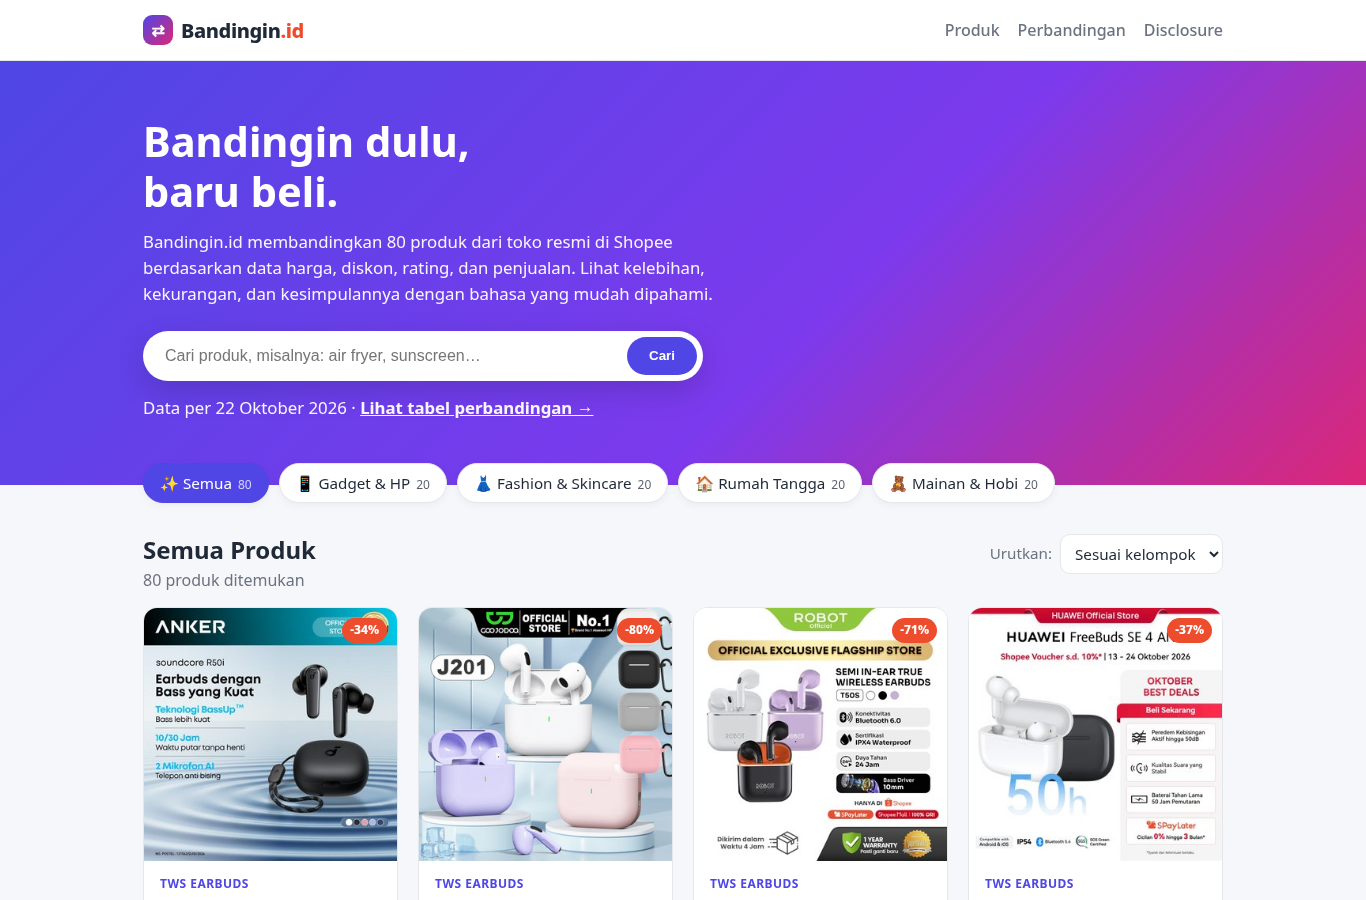
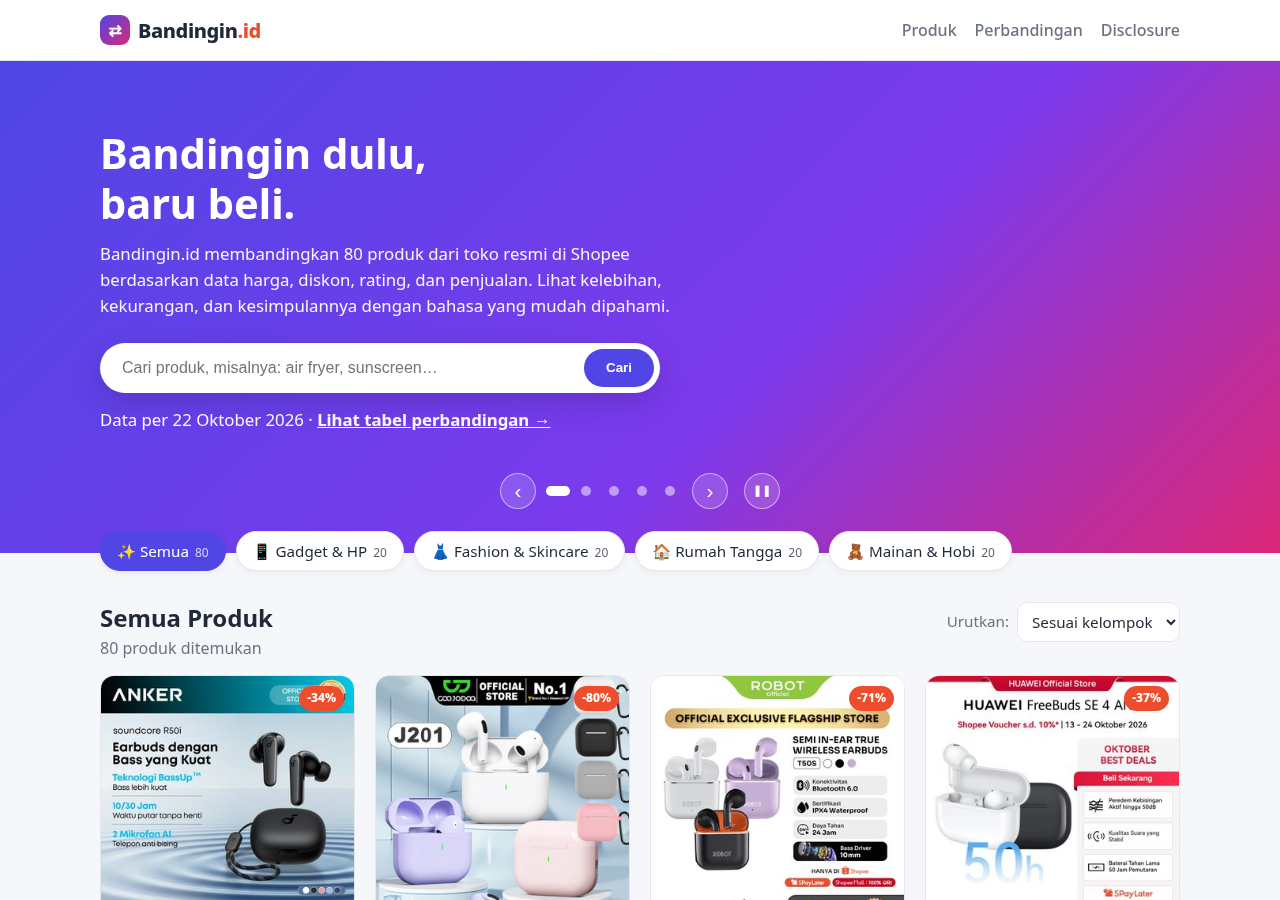
Hero jadi slide show

Changed region(s): [[0.0, 0.1244, 1.0, 1.0], [0.0625, 0.0, 0.2188, 0.0622], [0.6875, 0.0311, 0.9062, 0.0622]]

diff --git a/js/slideshow.js b/js/slideshow.js
@@ -1,0 +1,112 @@
+/* Slide show di beranda. Slide 1 = hero (sudah ada di index.html), slide berikutnya = produk unggulan
+   per kategori (Situs.daftarUnggulan di js/common.js). Tanpa library. */
+(function () {
+  var S = window.Situs;
+  var root = document.getElementById("slideshow");
+  var track = document.getElementById("hs-track");
+  if (!root || !track || !S) return;
+  var elDots = document.getElementById("hs-dots");
+  var elKontrol = document.getElementById("hs-kontrol");
+  var btnPrev = document.getElementById("hs-prev");
+  var btnNext = document.getElementById("hs-next");
+  var btnJeda = document.getElementById("hs-jeda");
+  var JEDA_MS = 5000;
+  var reduce = window.matchMedia && window.matchMedia("(prefers-reduced-motion: reduce)").matches;
+
+  function slideProduk(u) {
+    var p = u.produk, link = "review.html?id=" + encodeURIComponent(p.id), s = S.linkShopee(p);
+    var img = S.gambar(p, true, false).replace('loading="lazy"', 'loading="eager"');
+    return '<div class="hs-slide hs-produk" role="group" aria-roledescription="slide">' +
+      '<a class="hs-img" href="' + link + '" tabindex="-1" aria-hidden="true">' + img + "</a>" +
+      '<div class="hs-info">' +
+        '<p class="hs-kicker">' + u.ikon + " Pilihan teratas " + S.esc(u.kategori) + "</p>" +
+        '<span class="hs-cat">' + S.esc(p.jenisNama || p.kategori) + "</span>" +
+        '<h2 class="hs-judul"><a href="' + link + '" title="' + S.esc(p.nama) + '">' + S.esc(S.judulPendek(p.nama)) + "</a></h2>" +
+        '<p class="hs-harga"><b>' + S.esc(S.rupiah(p.harga)) + "</b>" +
+          (p.hargaAsli ? " <s>" + S.esc(S.rupiah(p.hargaAsli)) + "</s>" : "") +
+          (p.diskon ? ' <span class="hs-diskon">-' + p.diskon + "%</span>" : "") + "</p>" +
+        '<p class="hs-meta">' + S.bintang(p.rating) +
+          (p.terjual != null ? '<span class="hs-sold">' + S.esc(S.terjualTeks(p)) + " terjual/bln</span>" : "") + "</p>" +
+        '<div class="hs-btns"><a class="hs-btn hs-btn-review" href="' + link + '">Baca review</a>' +
+          (s ? '<a class="hs-btn hs-btn-shopee" href="' + S.esc(s) + '" ' + S.REL + ">Cek Harga di Shopee</a>" : "") +
+        "</div>" +
+      "</div></div>";
+  }
+
+  track.insertAdjacentHTML("beforeend", S.daftarUnggulan().map(slideProduk).join(""));
+  var slides = [].slice.call(track.querySelectorAll(".hs-slide"));
+  var n = slides.length;
+  if (n < 2) return;
+
+  var aktif = 0, timer = null, dijeda = reduce, hover = false, fokus = false;
+  elKontrol.hidden = false;
+  root.classList.add("hs-siap");
+  elDots.innerHTML = slides.map(function (sl, i) {
+    var nama = i === 0 ? "Beranda" : sl.querySelector(".hs-kicker").textContent.replace(/^\S+\s/, "");
+    sl.setAttribute("aria-label", (i + 1) + " dari " + n + ": " + nama);
+    return '<button type="button" class="hs-dot" aria-label="Slide ' + (i + 1) + ": " + S.esc(nama) + '"></button>';
+  }).join("");
+  var dots = [].slice.call(elDots.querySelectorAll(".hs-dot"));
+
+  function tampil(i, dariUser) {
+    aktif = (i + n) % n;
+    track.style.transform = "translateX(" + (-100 * aktif) + "%)";
+    slides.forEach(function (sl, j) {
+      var on = j === aktif;
+      sl.setAttribute("aria-hidden", on ? "false" : "true");
+      if (on) sl.removeAttribute("inert"); else sl.setAttribute("inert", "");
+    });
+    dots.forEach(function (d, j) {
+      if (j === aktif) d.setAttribute("aria-current", "true"); else d.removeAttribute("aria-current");
+    });
+    if (dariUser) mulai();
+  }
+  function jalan() { return !dijeda && !hover && !fokus && !document.hidden; }
+  function mulai() {
+    clearInterval(timer); timer = null;
+    if (jalan()) timer = setInterval(function () { tampil(aktif + 1); }, JEDA_MS);
+    // Saat berputar otomatis, pembaca layar tidak diberi tahu tiap pergantian slide
+    track.setAttribute("aria-live", timer ? "off" : "polite");
+    root.classList.toggle("hs-jalan", !!timer);
+  }
+  function setJeda(v) {
+    dijeda = v;
+    btnJeda.setAttribute("aria-pressed", v ? "true" : "false");
+    btnJeda.setAttribute("aria-label", v ? "Putar slide show" : "Jeda slide show");
+    btnJeda.textContent = v ? "▶" : "❚❚";
+    mulai();
+  }
+
+  btnPrev.addEventListener("click", function () { tampil(aktif - 1, true); });
+  btnNext.addEventListener("click", function () { tampil(aktif + 1, true); });
+  btnJeda.addEventListener("click", function () { setJeda(!dijeda); });
+  dots.forEach(function (d, i) { d.addEventListener("click", function () { tampil(i, true); }); });
+  root.addEventListener("keydown", function (e) {
+    if (/^(INPUT|TEXTAREA|SELECT)$/.test(e.target.tagName)) return;
+    if (e.key === "ArrowLeft") { e.preventDefault(); tampil(aktif - 1, true); }
+    else if (e.key === "ArrowRight") { e.preventDefault(); tampil(aktif + 1, true); }
+  });
+  root.addEventListener("mouseenter", function () { hover = true; mulai(); });
+  root.addEventListener("mouseleave", function () { hover = false; mulai(); });
+  root.addEventListener("focusin", function () { fokus = true; mulai(); });
+  root.addEventListener("focusout", function (e) {
+    if (!root.contains(e.relatedTarget)) { fokus = false; mulai(); }
+  });
+  document.addEventListener("visibilitychange", mulai);
+
+  // Geser (swipe) di layar sentuh
+  var x0 = null, y0 = 0;
+  track.addEventListener("touchstart", function (e) { x0 = e.touches[0].clientX; y0 = e.touches[0].clientY; hover = true; mulai(); }, { passive: true });
+  track.addEventListener("touchend", function (e) {
+    if (x0 === null) return;
+    var dx = e.changedTouches[0].clientX - x0, dy = e.changedTouches[0].clientY - y0;
+    x0 = null; hover = false;
+    if (Math.abs(dx) > 40 && Math.abs(dx) > Math.abs(dy)) tampil(aktif + (dx < 0 ? 1 : -1), true);
+    else mulai();
+  }, { passive: true });
+
+  if (reduce) { btnJeda.hidden = true; }
+  tampil(0);
+  mulai();
+  window.SlideShow = { ke: function (i) { tampil(i, true); }, aktif: function () { return aktif; }, jumlah: n };
+})();

diff --git a/css/style.css b/css/style.css
@@ -233,3 +233,61 @@ img { max-width: 100%; display: block; }
   .nav-links a { font-size: .9rem; margin-left: 12px; }
 }
 @media (max-width: 360px) { .nav-links a { font-size: .82rem; margin-left: 8px; } }
+
+/* ===== Slide show (hero) ===== */
+.hero.hs { padding: 40px 0 44px; overflow: hidden; }
+/* Stage sedikit lebih lebar dari kolom (+ padding di tiap slide) supaya bayangan slide sebelah tidak terlihat */
+.hs-stage { overflow: hidden; height: 360px; margin: 0 -40px; }
+.hs-track { display: flex; height: 100%; transition: transform .55s ease; will-change: transform; }
+.hs-slide { flex: 0 0 100%; min-width: 0; height: 100%; padding: 0 40px; display: flex; flex-direction: column; justify-content: center; }
+.hs-produk { display: grid; grid-template-columns: 300px 1fr; gap: 40px; align-items: center; }
+.hs-img { position: relative; display: block; height: 300px; background: #fff; border-radius: 22px; overflow: hidden;
+  box-shadow: 0 10px 24px rgba(0,0,0,.18); padding: 14px; }
+.hs-img img { width: 100%; height: 100%; object-fit: contain; }
+.hs-img .ph { height: 100%; display: flex; align-items: center; justify-content: center; font-size: 4rem; }
+.hs-info { min-width: 0; }
+.hero .hs-kicker { font-size: .85rem; font-weight: 700; letter-spacing: .02em; text-transform: uppercase; opacity: .9; margin: 0 0 8px; }
+.hs-cat { display: inline-block; background: rgba(255,255,255,.18); border: 1px solid rgba(255,255,255,.35); border-radius: 999px;
+  padding: 2px 10px; font-size: .78rem; font-weight: 600; }
+.hs-judul { font-size: clamp(1.3rem, 2.6vw, 2rem); line-height: 1.2; margin: 10px 0 10px;
+  display: -webkit-box; -webkit-line-clamp: 2; -webkit-box-orient: vertical; overflow: hidden; }
+.hs-judul a { color: #fff; text-decoration: none; }
+.hs-judul a:hover { text-decoration: underline; }
+.hero .hs-harga { margin: 0 0 6px; font-size: 1rem; }
+.hs-harga b { font-size: 1.5rem; }
+.hs-harga s { opacity: .75; margin-left: 4px; }
+.hs-diskon { display: inline-block; background: #fff; color: var(--shopee); font-weight: 800; font-size: .8rem; border-radius: 6px; padding: 1px 6px; margin-left: 4px; vertical-align: 2px; }
+.hero .hs-meta { display: flex; align-items: center; gap: 12px; flex-wrap: wrap; margin: 0 0 18px; font-size: .95rem; }
+.hs-meta .star.s-empty { color: rgba(255,255,255,.4); }
+.hs-meta .rating-num { color: #fff; }
+.hs-sold { opacity: .95; }
+.hs-btns { display: flex; gap: 10px; flex-wrap: wrap; }
+.hs-btn { display: inline-block; text-decoration: none; font-weight: 700; font-size: .95rem; padding: 11px 20px; border-radius: 999px; text-align: center; }
+.hs-btn-review { background: #fff; color: var(--utama-gelap); }
+.hs-btn-shopee { background: var(--shopee); color: #fff; box-shadow: 0 6px 16px rgba(0,0,0,.18); }
+.hs-btn:hover { filter: brightness(.94); }
+.hs-kontrol { display: flex; align-items: center; justify-content: center; gap: 10px; margin-top: 12px; height: 36px; }
+.hs-kontrol[hidden] { display: none; }
+.hs-panah, .hs-jeda { width: 36px; height: 36px; border-radius: 50%; border: 1px solid rgba(255,255,255,.5); background: rgba(255,255,255,.15);
+  color: #fff; font-size: 1.3rem; line-height: 1; cursor: pointer; display: inline-flex; align-items: center; justify-content: center; padding: 0; }
+.hs-jeda { font-size: .7rem; margin-left: 6px; }
+.hs-panah:hover, .hs-jeda:hover { background: rgba(255,255,255,.3); }
+.hs-dots { display: flex; gap: 4px; }
+.hs-dot { width: 24px; height: 24px; border: 0; background: transparent; padding: 0; cursor: pointer; display: inline-flex; align-items: center; justify-content: center; }
+.hs-dot::before { content: ""; width: 10px; height: 10px; border-radius: 999px; background: rgba(255,255,255,.5); transition: width .3s, background .3s; }
+.hs-dot[aria-current="true"]::before { width: 24px; background: #fff; }
+.hs :focus-visible { outline: 3px solid #fff; outline-offset: 2px; }
+.hs .search input:focus-visible { outline: none; }
+@media (max-width: 720px) {
+  .hero.hs { padding: 24px 0 38px; }
+  .hs-stage { height: 470px; }
+  .hs-produk { grid-template-columns: 1fr; grid-template-rows: 190px auto; gap: 14px; align-content: center; }
+  .hs-img { height: 190px; width: 100%; max-width: 280px; margin: 0 auto; padding: 10px; border-radius: 18px; }
+  .hero .hs-kicker { font-size: .75rem; margin-bottom: 6px; }
+  .hs-judul { font-size: 1.2rem; margin: 6px 0; }
+  .hs-harga b { font-size: 1.25rem; }
+  .hero .hs-meta { margin-bottom: 12px; font-size: .85rem; }
+  .hs-btns { flex-wrap: nowrap; }
+  .hs-btn { flex: 1 1 0; font-size: .85rem; padding: 10px 8px; }
+}
+@media (prefers-reduced-motion: reduce) { .hs-track { transition: none; } }

diff --git a/index.html b/index.html
@@ -21,15 +21,29 @@
   </header>
 
   <main>
-    <section class="hero">
+    <!-- Slide show di bagian atas. Slide 1 = hero (statis); slide 2-5 = produk unggulan per kategori,
+         dibuat otomatis oleh js/slideshow.js dari data/produk.js (aturan pilihan: Situs.produkUnggulan). -->
+    <section class="hero hs" id="slideshow" aria-roledescription="carousel" aria-label="Sorotan Bandingin.id">
       <div class="wrap">
-        <h1>Bandingin dulu, <br>baru beli.</h1>
-        <p>Bandingin.id membandingkan 80 produk dari toko resmi di Shopee berdasarkan data harga, diskon, rating, dan penjualan. Lihat kelebihan, kekurangan, dan kesimpulannya dengan bahasa yang mudah dipahami.</p>
-        <form class="search" id="form-cari" role="search">
-          <input id="cari" type="search" placeholder="Cari produk, misalnya: air fryer, sunscreen…" aria-label="Cari produk" autocomplete="off">
-          <button type="submit">Cari</button>
-        </form>
-        <p class="hero-note">Data per <span class="tanggal-data">22 Oktober 2026</span> · <a href="perbandingan.html">Lihat tabel perbandingan →</a></p>
+        <div class="hs-stage">
+          <div class="hs-track" id="hs-track" aria-live="polite">
+            <div class="hs-slide hs-intro" role="group" aria-roledescription="slide" aria-label="1 dari 1">
+              <h1>Bandingin dulu, <br>baru beli.</h1>
+              <p>Bandingin.id membandingkan 80 produk dari toko resmi di Shopee berdasarkan data harga, diskon, rating, dan penjualan. Lihat kelebihan, kekurangan, dan kesimpulannya dengan bahasa yang mudah dipahami.</p>
+              <form class="search" id="form-cari" role="search">
+                <input id="cari" type="search" placeholder="Cari produk, misalnya: air fryer, sunscreen…" aria-label="Cari produk" autocomplete="off">
+                <button type="submit">Cari</button>
+              </form>
+              <p class="hero-note">Data per <span class="tanggal-data">22 Oktober 2026</span> · <a href="perbandingan.html">Lihat tabel perbandingan →</a></p>
+            </div>
+          </div>
+        </div>
+        <div class="hs-kontrol" id="hs-kontrol" hidden>
+          <button type="button" class="hs-panah" id="hs-prev" aria-label="Slide sebelumnya">‹</button>
+          <div class="hs-dots" id="hs-dots" role="group" aria-label="Pilih slide"></div>
+          <button type="button" class="hs-panah" id="hs-next" aria-label="Slide berikutnya">›</button>
+          <button type="button" class="hs-jeda" id="hs-jeda" aria-label="Jeda slide show" aria-pressed="false">❚❚</button>
+        </div>
       </div>
     </section>
 
@@ -72,6 +86,7 @@
 
   <script src="data/produk.js"></script>
   <script src="js/common.js"></script>
+  <script src="js/slideshow.js"></script>
   <script src="js/beranda.js"></script>
 </body>
 </html>

diff --git a/js/common.js b/js/common.js
@@ -146,6 +146,39 @@
     return (y.terjual || 0) - (x.terjual || 0) || y.rating - x.rating || x.harga - y.harga;
   }
 
+  // Judul pendek untuk tempat sempit: potong di pemisah (" - ", "|", ",", "(") lalu maks. 8 kata
+  function judulPendek(nama, maks) {
+    maks = maks || 8;
+    var t = String(nama || "").split(/\s[-|\u2013/]\s|\s\|\s?|,|\(|\sl\s/)[0].trim();
+    var kata = t.split(/\s+/);
+    if (kata.length < 3) kata = String(nama || "").split(/\s+/);
+    return kata.slice(0, maks).join(" ") + (kata.length > maks ? "…" : "");
+  }
+
+  // Produk unggulan per kategori (untuk slide show di beranda). Aturan (deterministik):
+  //  1. hanya produk yang punya gambar dan link Shopee;
+  //  2. utamakan yang berlabel "Paling seimbang" (skor gabungan harga, rating, penjualan di kelompoknya);
+  //  3. lalu rating tertinggi, 4. terjual terbanyak, 5. diskon terbesar, 6. harga termurah, 7. id (A-Z).
+  // Hasil ikut berubah otomatis saat data/produk.js dibuat ulang.
+  function produkUnggulan(kategori) {
+    var list = (window.PRODUK || []).filter(function (p) {
+      return p.kategori === kategori && p.gambar && linkShopee(p);
+    });
+    var seimbang = function (p) { return (p.label || []).indexOf("Paling seimbang") !== -1 ? 1 : 0; };
+    list.sort(function (x, y) {
+      return seimbang(y) - seimbang(x) || y.rating - x.rating || (y.terjual || 0) - (x.terjual || 0) ||
+        (y.diskon || 0) - (x.diskon || 0) || x.harga - y.harga || (x.id < y.id ? -1 : x.id > y.id ? 1 : 0);
+    });
+    return list[0] || null;
+  }
+  // Satu produk unggulan untuk tiap kategori di window.KATEGORI (urutan kategori tetap)
+  function daftarUnggulan() {
+    return (window.KATEGORI || []).map(function (k) {
+      var p = produkUnggulan(k.nama);
+      return p ? { kategori: k.nama, ikon: k.ikon, produk: p } : null;
+    }).filter(Boolean);
+  }
+
   function grupDari(jenis) {
     return (window.GRUP || []).filter(function (g) { return g.id === jenis; })[0];
   }
@@ -154,7 +187,8 @@
     esc: esc, rupiah: rupiah, terjualTeks: terjualTeks, rentangTerjual: rentangTerjual, angkaTerjual: angkaTerjual, bintang: bintang, gambar: gambar, gagal: gagal,
     tombolToko: tombolToko, badgeContoh: badgeContoh, label: label, hargaHtml: hargaHtml,
     tabelGrup: tabelGrup, grupDari: grupDari, produkById: produkById,
-    kartu: kartu, urutTerlaris: urutTerlaris
+    kartu: kartu, urutTerlaris: urutTerlaris, judulPendek: judulPendek, linkShopee: linkShopee,
+    produkUnggulan: produkUnggulan, daftarUnggulan: daftarUnggulan, REL: REL
   };
 
   document.addEventListener("DOMContentLoaded", function () {
